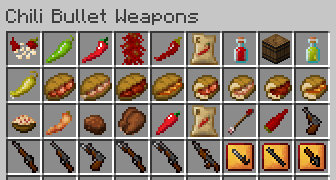
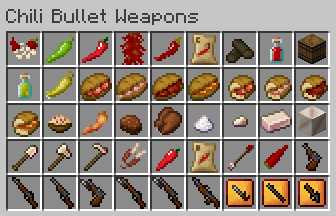
Update docs for CBW Chili Peppers and Foods v1.1.0

diff --git a/docs/v2/materials.md b/docs/v2/materials.md
@@ -1,0 +1,50 @@
+# Materials
+
+Chili Bullet Weapons Version 2.0.0, and CBW Chili Peppers and Foods Version 1.1.0
+
+- [Top Page](../index.html)
+  - [How to Get Started](index.html)
+- ![ ](../media/cpaf_icon_16.png) CBW Chili Peppers and Foods
+  - [Farming](farming.html)
+  - [Foods](foods.html)
+  - **Materials**
+    - [Capsaicin Powder](#capsaicin-powder)
+    - [Ferro-Capsicumium Ingot](#ferro-capsicumium-ingot)
+    - [Ferro-Capsicumium Nugget](#ferro-capsicumium-nugget)
+    - [Block of Ferro-Capsicumium](#block-of-ferro-capsicumium)
+  - [Tools](tools.html)
+- ![ ](../media/icon_16.png) Chili Bullet Weapons
+  - [Weapons](weapons.html)
+  - [Configuration](config.html)
+
+## Capsaicin Powder
+
+Capsaicin powder is a component of chili peppers, a substance extracted from chili peppers with alcohol and dried.
+
+![Crafting capsaicin powder](../media/item/crafting/crafting_capsaicin_powder.png)
+
+## Ferro-Capsicumium Ingot
+
+Ferro-capsicumium is an alloy consisting of iron and curved chili pepper components with redstone as catalyst.
+
+![Crafting ferro-capsicumium ingots](../media/item/crafting/crafting_ferro-capsicumium_ingot.png)
+
+Ferro-capsicumium ingots can be smelted in a furnace or blast furnace to obtain iron ingots.
+
+![Extracting iron ingot from ferro-capsicumium ingot](../media/item/crafting/extracting_iron_ingot_in_furnace.png)
+
+## Ferro-Capsicumium Nugget
+
+Ferro-capsicumium nuggets are pieces of ferro-capsicumium.
+
+![Crafting ferro-capsicumium ingot from nuggets](../media/item/crafting/crafting_ferro-capsicumium_ingot_from_nuggets.png)
+![Crafting ferro-capsicumium nuggets](../media/item/crafting/crafting_ferro-capsicumium_nugget.png)
+
+## Block of Ferro-Capsicumium
+
+Block of ferro-capsicumium can be used to store ferro-capsicumium ingots in a compact fashion.
+
+![Crafting block of ferro-capsicumium](../media/item/crafting/crafting_block_of_ferro-capsicumium.png)
+![Crafting ferro-capsicumium ingot from block](../media/item/crafting/crafting_ferro-capsicumium_ingot_from_block.png)
+
+Block of ferro-capsicumium can be harvested when broken with a pickaxe with stone or higher mining level.

diff --git a/docs/v2/foods.md b/docs/v2/foods.md
@@ -1,6 +1,6 @@
 # Foods
 
-Chili Bullet Weapons Version 2.0.0, and CBW Chili Peppers and Foods Version 1.0.0
+Chili Bullet Weapons Version 2.0.0, and CBW Chili Peppers and Foods Version 1.1.0
 
 - [Top Page](../index.html)
   - [How to Get Started](index.html)
@@ -16,6 +16,8 @@ Chili Bullet Weapons Version 2.0.0, and CBW Chili Peppers and Foods Version 1.0.
     - [Fried Chili Pepper](#fried-chili-pepper)
     - [Chili Chocolate](#chili-chocolate)
     - [Chicken with Chili Chocolate Sauce](#chicken-with-chili-chocolate-sauce)
+  - [Materials](materials.html)
+  - [Tools](tools.html)
 - ![ ](../media/icon_16.png) Chili Bullet Weapons
   - [Weapons](weapons.html)
   - [Configuration](config.html)
@@ -27,7 +29,7 @@ Hot chili sauce is a hot sauce made from curved chili peppers and can be used to
 ![Crafting bottles of hot chili sauce](../media/item/crafting/crafting_hot_sauce.png)
 ![Crafting bottles of hot chili sauce with dried curved chili pepper](../media/item/crafting/crafting_hot_sauce_with_dried_chili.png)
 
-Glass bottles will be returned when hot chili sauce is consumed.
+Glass bottles will be returned when hot chili sauce is consumed by crafting.
 
 A barrel of hot chili sauce can be used to make many bottles of hot chili sauce at one time.
 
@@ -36,11 +38,19 @@ A barrel of hot chili sauce can be used to make many bottles of hot chili sauce 
 
 ![Crafting bottles of hot chili sauce from barrel](../media/item/crafting/crafting_hot_sauce_from_barrel.png)
 
+Hot chili sauce can be thrown by using it.
+It splashes on impact and applies Slowness IV and Blindness effects (0:02) to nearby entities.
+
 ## Green Hot Chili Sauce
 
 Green hot chili sauce is a hot sauce made from curved green chili peppers and can be used to flavor food.
 
 ![Crafting bottles of green hot chili sauce](../media/item/crafting/crafting_green_hot_sauce.png)
+
+Glass bottles will be returned when hot chili sauce is consumed by crafting.
+
+Green hot chili sauce can be thrown by using it.
+It splashes on impact and applies Slowness IV and Blindness effects (0:02) to nearby entities.
 
 ## Pickled Green Chili Pepper
 

diff --git a/docs/index.md b/docs/index.md
@@ -6,15 +6,19 @@ Chili Bullet Weapons is a Minecraft mod to add chili peppers, foods, and weapons
 
 ## Download Mod
 
-- [Modrinth](https://modrinth.com/project/chili-bullet-weapons)
-- [CurseForge](https://www.curseforge.com/minecraft/mc-mods/chili-bullet-weapons)
+- ![ ](media/cpaf_icon_16.png) CBW Chili Peppers and Foods
+  - [Modrinth](https://modrinth.com/mod/cbw-chili-peppers-and-foods)
+  - [CurseForge](https://www.curseforge.com/minecraft/mc-mods/cbw-chili-peppers-and-foods)
+- ![ ](media/icon_16.png) Chili Bullet Weapons
+  - [Modrinth](https://modrinth.com/project/chili-bullet-weapons)
+  - [CurseForge](https://www.curseforge.com/minecraft/mc-mods/chili-bullet-weapons)
 
 ## Requirements
 
 - NeoForge version - NeoForge
 - Forge version - Minecraft Forge
 - Fabric version - Fabric Loader, Fabric API, and Cloth Config API
-- [CBW Chili Peppers and Foods](https://github.com/Iunius118/CBWChiliPeppersAndFoods)
+- CBW Chili Peppers and Foods v1.1.0
 
 ## Table of Contents
 
@@ -38,6 +42,16 @@ Chili Bullet Weapons is a Minecraft mod to add chili peppers, foods, and weapons
   - [Fried Chili Pepper](v2/foods.html#fried-chili-pepper)
   - [Chili Chocolate](v2/foods.html#chili-chocolate)
   - [Chicken with Chili Chocolate Sauce](v2/foods.html#chicken-with-chili-chocolate-sauce)
+- [Materials](v2/materials.html)
+  - [Capsaicin Powder](v2/materials.html#capsaicin-powder)
+  - [Ferro-Capsicumium Ingot](v2/materials.html#ferro-capsicumium-ingot)
+  - [Ferro-Capsicumium Nugget](v2/materials.html#ferro-capsicumium-nugget)
+  - [Block of Ferro-Capsicumium](v2/materials.html#block-of-ferro-capsicumium)
+- [Tools](v2/tools.html)
+  - [Ferro-Capsicumium Shovel](v2/tools.html#ferro-capsicumium-shovel)
+  - [Ferro-Capsicumium Axe](v2/tools.html#ferro-capsicumium-axe)
+  - [Ferro-Capsicumium Hoe](v2/tools.html#ferro-capsicumium-hoe)
+  - [Ferro-Capsicumium Shears](v2/tools.html#ferro-capsicumium-shears)
 
 ![ ](media/icon_16.png) Chili Bullet Weapons
 

diff --git a/docs/v2/tools.md b/docs/v2/tools.md
@@ -1,0 +1,44 @@
+# Tools
+
+Chili Bullet Weapons Version 2.0.0, and CBW Chili Peppers and Foods Version 1.1.0
+
+- [Top Page](../index.html)
+  - [How to Get Started](index.html)
+- ![ ](../media/cpaf_icon_16.png) CBW Chili Peppers and Foods
+  - [Farming](farming.html)
+  - [Foods](foods.html)
+  - [Materials](materials.html)
+  - **Tools**
+    - [Ferro-Capsicumium Shovel](#ferro-capsicumium-shovel)
+    - [Ferro-Capsicumium Axe](#ferro-capsicumium-axe)
+    - [Ferro-Capsicumium Hoe](#ferro-capsicumium-hoe)
+    - [Ferro-Capsicumium Shears](#ferro-capsicumium-shears)
+- ![ ](../media/icon_16.png) Chili Bullet Weapons
+  - [Weapons](weapons.html)
+  - [Configuration](config.html)
+
+## Ferro-Capsicumium Shovel
+
+A ferro-capsicumium shovel is a tool made from ferro-capsicumium and can be used like an iron shovel.
+
+![Crafting ferro-capsicumium shovel](../media/item/crafting/crafting_ferro-capsicumium_shovel.png)
+
+## Ferro-Capsicumium Axe
+
+A ferro-capsicumium axe is a tool made from ferro-capsicumium and can be used like an iron axe.
+
+![Crafting ferro-capsicumium axe](../media/item/crafting/crafting_ferro-capsicumium_axe.png)
+
+## Ferro-Capsicumium Hoe
+
+A ferro-capsicumium hoe is a tool made from ferro-capsicumium and can be used like an iron hoe.
+
+![Crafting ferro-capsicumium hoe](../media/item/crafting/crafting_ferro-capsicumium_hoe.png)
+
+## Ferro-Capsicumium Shears
+
+A ferro-capsicumium hoe is a tool made from ferro-capsicumium and can be used like shears.
+
+![Crafting ferro-capsicumium shears](../media/item/crafting/crafting_ferro-capsicumium_shears.png)
+
+When chili pepper crops are harvested by using ferro-capsicumium shears, chili pepper seeds will automatically be sown.

diff --git a/docs/v2/weapon_data.md b/docs/v2/weapon_data.md
@@ -1,6 +1,6 @@
 # Weapon Data
 
-Chili Bullet Weapons Version 2.0.0, and CBW Chili Peppers and Foods Version 1.0.0
+Chili Bullet Weapons Version 2.0.0, and CBW Chili Peppers and Foods Version 1.1.0
 
 - [Top Page](../index.html)
 - ![ ](../media/icon_16.png) Chili Bullet Weapons
@@ -17,7 +17,11 @@ Chili Bullet Weapons Version 2.0.0, and CBW Chili Peppers and Foods Version 1.0.
 |        4       |    22.0 |    3.0 |
 |        5       |    23.4 |    3.2 |
 
-## Pistol/Volley Gun/Machine Gun
+## Chili Bullet
+
+Chili bullets have a 10% chance of a critical hit that does 22 damage.
+
+### Pistol/Volley Gun/Machine Gun
 
 | Angle | Ticks | Dist. | Speed | MinDmg. | MaxDmg. |
 |------:|------:|------:|------:|--------:|--------:|
@@ -28,7 +32,7 @@ Chili Bullet Weapons Version 2.0.0, and CBW Chili Peppers and Foods Version 1.0.
 |  10.0 |    34 | 85.51 | 2.173 |       4 |       7 |
 |  12.0 |    40 | 97.14 | 2.058 |       4 |       7 |
 
-## Rifle
+### Rifle
 
 | Angle | Ticks | Dist. | Speed | MinDmg. | MaxDmg. |
 |------:|------:|------:|------:|--------:|--------:|

diff --git a/docs/v2/farming.md b/docs/v2/farming.md
@@ -1,6 +1,6 @@
 # Farming
 
-Chili Bullet Weapons Version 2.0.0, and CBW Chili Peppers and Foods Version 1.0.0
+Chili Bullet Weapons Version 2.0.0, and CBW Chili Peppers and Foods Version 1.1.0
 
 - [Top Page](../index.html)
   - [How to Get Started](index.html)
@@ -12,6 +12,8 @@ Chili Bullet Weapons Version 2.0.0, and CBW Chili Peppers and Foods Version 1.0.
     - [Compact Storage of Chili Peppers](#compact-storage-of-chili-peppers)
     - [Composting](#composting)
   - [Foods](foods.html)
+  - [Materials](materials.html)
+  - [Tools](tools.html)
 - ![ ](../media/icon_16.png) Chili Bullet Weapons
   - [Weapons](weapons.html)
   - [Configuration](config.html)

diff --git a/docs/v2/weapons.md b/docs/v2/weapons.md
@@ -1,12 +1,14 @@
 # Weapons
 
-Chili Bullet Weapons Version 2.0.0, and CBW Chili Peppers and Foods Version 1.0.0
+Chili Bullet Weapons Version 2.0.0, and CBW Chili Peppers and Foods Version 1.1.0
 
 - [Top Page](../index.html)
   - [How to Get Started](index.html)
 - ![ ](../media/cpaf_icon_16.png) CBW Chili Peppers and Foods
   - [Farming](farming.html)
   - [Foods](foods.html)
+  - [Materials](materials.html)
+  - [Tools](tools.html)
 - ![ ](../media/icon_16.png) Chili Bullet Weapons
   - **Weapons**
     - [Bullet Chili Arrow](#bullet-chili-arrow)

diff --git a/docs/v2/index.md b/docs/v2/index.md
@@ -1,12 +1,14 @@
 # How to Get Started
 
-Chili Bullet Weapons Version 2.0.0, and CBW Chili Peppers and Foods Version 1.0.0
+Chili Bullet Weapons Version 2.0.0, and CBW Chili Peppers and Foods Version 1.1.0
 
 - [Top Page](../index.html)
   - **How to Get Started**
 - ![ ](../media/cpaf_icon_16.png) CBW Chili Peppers and Foods
   - [Farming](farming.html)
   - [Foods](foods.html)
+  - [Materials](materials.html)
+  - [Tools](tools.html)
 - ![ ](../media/icon_16.png) Chili Bullet Weapons
   - [Weapons](weapons.html)
   - [Configuration](config.html)

diff --git a/docs/v2/config.md b/docs/v2/config.md
@@ -1,12 +1,14 @@
 # Configuration
 
-Chili Bullet Weapons Version 2.0.0, and CBW Chili Peppers and Foods Version 1.0.0
+Chili Bullet Weapons Version 2.0.0, and CBW Chili Peppers and Foods Version 1.1.0
 
 - [Top Page](../index.html)
   - [How to Get Started](index.html)
 - ![ ](../media/cpaf_icon_16.png) CBW Chili Peppers and Foods
   - [Farming](farming.html)
   - [Foods](foods.html)
+  - [Materials](materials.html)
+  - [Tools](tools.html)
 - ![ ](../media/icon_16.png) Chili Bullet Weapons
   - [Weapons](weapons.html)
   - **Configuration**
